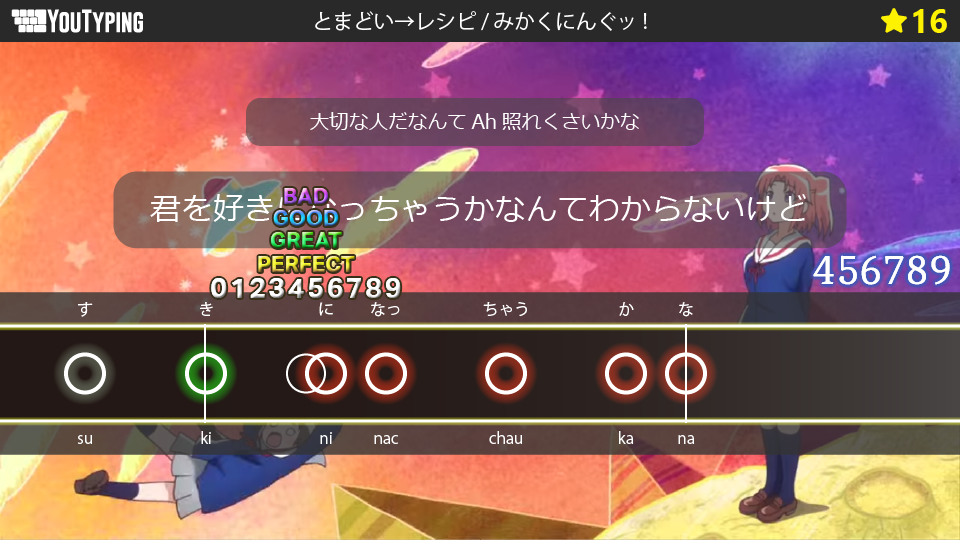
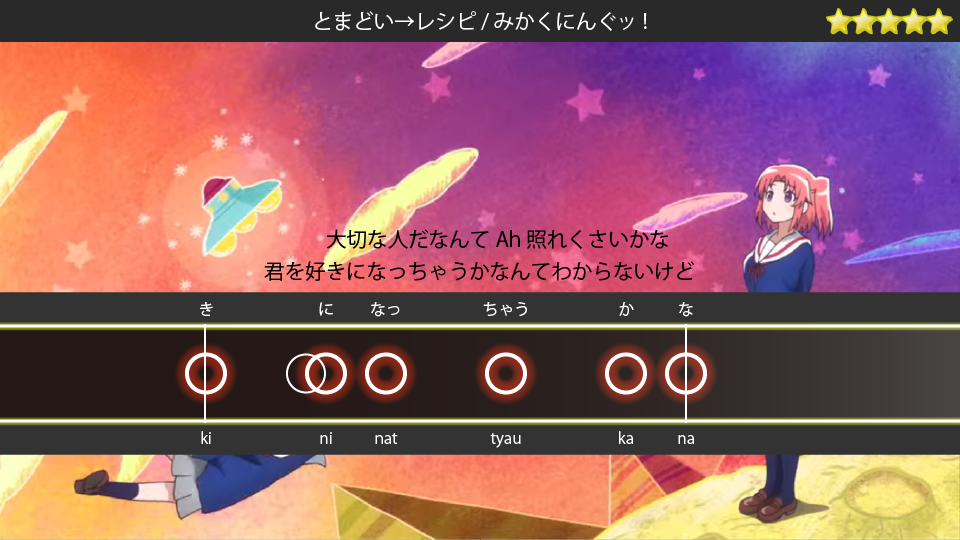
Update breakin animations

diff --git a/composite.js b/composite.js
@@ -13,10 +13,11 @@ lib.properties = {
 		{src:"images/menu_config.png", id:"menu_config"},
 		{src:"images/menu_exit.png", id:"menu_exit"},
 		{src:"images/menu_play.png", id:"menu_play"},
-		{src:"images/opening_light.png", id:"opening_light"},
+		{src:"images/mideshi.jpg", id:"mideshi"},
+		{src:"images/notegreen01.png", id:"notegreen01"},
 		{src:"images/OpeningBackground.png", id:"OpeningBackground"},
 		{src:"images/OpeningLogo.png", id:"OpeningLogo"},
-		{src:"images/youtypingmodern01.png", id:"youtypingmodern01"}
+		{src:"images/rane01.png", id:"rane01"}
 	]
 };
 
@@ -50,10 +51,16 @@ p.nominalBounds = new cjs.Rectangle(0,0,143,50);
 p.nominalBounds = new cjs.Rectangle(0,0,146,68);
 
 
-(lib.opening_light = function() {
-	this.initialize(img.opening_light);
+(lib.mideshi = function() {
+	this.initialize(img.mideshi);
 }).prototype = p = new cjs.Bitmap();
-p.nominalBounds = new cjs.Rectangle(0,0,960,116);
+p.nominalBounds = new cjs.Rectangle(0,0,960,540);
+
+
+(lib.notegreen01 = function() {
+	this.initialize(img.notegreen01);
+}).prototype = p = new cjs.Bitmap();
+p.nominalBounds = new cjs.Rectangle(0,0,64,65);
 
 
 (lib.OpeningBackground = function() {
@@ -68,10 +75,21 @@ p.nominalBounds = new cjs.Rectangle(0,0,960,540);
 p.nominalBounds = new cjs.Rectangle(0,0,469,106);
 
 
-(lib.youtypingmodern01 = function() {
-	this.initialize(img.youtypingmodern01);
+(lib.rane01 = function() {
+	this.initialize(img.rane01);
 }).prototype = p = new cjs.Bitmap();
-p.nominalBounds = new cjs.Rectangle(0,0,960,540);
+p.nominalBounds = new cjs.Rectangle(0,0,960,163);
+
+
+(lib.シンボル4 = function() {
+	this.initialize();
+
+	// レイヤー 1
+	this.instance = new lib.rane01();
+
+	this.addChild(this.instance);
+}).prototype = p = new cjs.Container();
+p.nominalBounds = new cjs.Rectangle(0,0,960,163);
 
 
 (lib.シンボル2 = function() {
@@ -231,7 +249,13 @@ p.nominalBounds = new cjs.Rectangle(-87,-42.9,172,85);
 	this.initialize();
 
 	// ワールドイズマイン
-	this.songTitle = new cjs.Text("ワールドイズマイン", "24px 'Meiryo'", "#FFFFFF");
+	this.text = new cjs.Text("", "24px 'Meiryo'", "#0066CC");
+	this.text.textAlign = "center";
+	this.text.lineHeight = 26;
+	this.text.lineWidth = 100;
+	this.text.setTransform(415.3,309.4);
+
+	this.songTitle = new cjs.Text("とまどい→レシピ", "24px 'Meiryo'", "#FFFFFF");
 	this.songTitle.name = "songTitle";
 	this.songTitle.textAlign = "center";
 	this.songTitle.lineHeight = 26;
@@ -257,9 +281,9 @@ p.nominalBounds = new cjs.Rectangle(-87,-42.9,172,85);
 	this.instance_1 = new lib.OpeningBackground();
 	this.instance_1.setTransform(-581,-270);
 
-	this.addChild(this.instance_1,this.instance,this.menu_play,this.menu_config,this.menu_exit,this.songTitle);
+	this.addChild(this.instance_1,this.instance,this.menu_play,this.menu_config,this.menu_exit,this.songTitle,this.text);
 }).prototype = p = new cjs.Container();
-p.nominalBounds = new cjs.Rectangle(-581,-270,960,540);
+p.nominalBounds = new cjs.Rectangle(-581,-270,1050.3,619.4);
 
 
 // stage content:
@@ -270,20 +294,46 @@ if (loop == null) { loop = false; }	this.initialize(mode,startPosition,loop,{ope
 	this.frame_0 = function() {
 		this.stop();
 	}
-	this.frame_31 = function() {
+	this.frame_50 = function() {
 		this.stop();
 	}
 
 	// actions tween:
-	this.timeline.addTween(cjs.Tween.get(this).call(this.frame_0).wait(31).call(this.frame_31).wait(2));
+	this.timeline.addTween(cjs.Tween.get(this).call(this.frame_0).wait(50).call(this.frame_50).wait(2));
 
-	// CoverAnimate
-	this.instance = new lib.シンボル2();
-	this.instance.setTransform(480,270,1,1,0,0,0,480,270);
-	this.instance.alpha = 0;
+	// レイヤー 3 (mask)
+	var mask = new cjs.Shape();
+	mask._off = true;
+	var mask_graphics_39 = new cjs.Graphics().p("EAtPAoVMAAAg9IMBDYAAAMAAAA9Ig");
+	var mask_graphics_40 = new cjs.Graphics().p("EgIaAoVMAAAg9IMB5BAAAMAAAA9Ig");
+	var mask_graphics_41 = new cjs.Graphics().p("EgpiAoVMAAAg9IMCaJAAAMAAAA9Ig");
+	var mask_graphics_42 = new cjs.Graphics().p("Eg+qAoVMAAAg9IMCvRAAAMAAAA9Ig");
+	var mask_graphics_43 = new cjs.Graphics().p("EhNnAoVMAAAg9IMC+OAAAMAAAA9Ig");
+	var mask_graphics_44 = new cjs.Graphics().p("EhZ4AoVMAAAg9IMDKfAAAMAAAA9Ig");
+	var mask_graphics_45 = new cjs.Graphics().p("EhlSAoVMAAAg9IMDV5AAAMAAAA9Ig");
+	var mask_graphics_46 = new cjs.Graphics().p("EhwlAoVMAAAg9IMDhMAAAMAAAA9Ig");
+	var mask_graphics_47 = new cjs.Graphics().p("EhwmAoVMAAAg9IMDhNAAAMAAAA9Ig");
+	var mask_graphics_48 = new cjs.Graphics().p("EhwmAoVMAAAg9IMDhNAAAMAAAA9Ig");
+	var mask_graphics_49 = new cjs.Graphics().p("EhwmAoVMAAAg9IMDhNAAAMAAAA9Ig");
+
+	this.timeline.addTween(cjs.Tween.get(mask).to({graphics:null,x:0,y:0}).wait(39).to({graphics:mask_graphics_39,x:720.8,y:258.1}).wait(1).to({graphics:mask_graphics_40,x:720.8,y:258.1}).wait(1).to({graphics:mask_graphics_41,x:720.8,y:258.1}).wait(1).to({graphics:mask_graphics_42,x:720.8,y:258.1}).wait(1).to({graphics:mask_graphics_43,x:720.8,y:258.1}).wait(1).to({graphics:mask_graphics_44,x:720.8,y:258.1}).wait(1).to({graphics:mask_graphics_45,x:720.8,y:258.1}).wait(1).to({graphics:mask_graphics_46,x:720.8,y:258.1}).wait(1).to({graphics:mask_graphics_47,x:720.5,y:258.1}).wait(1).to({graphics:mask_graphics_48,x:720.5,y:258.1}).wait(1).to({graphics:mask_graphics_49,x:720.5,y:258.1}).wait(1).to({graphics:null,x:0,y:0}).wait(2));
+
+	// Main
+	this.instance = new lib.シンボル4();
+	this.instance.setTransform(480,373,1,1,0,0,0,480,81.5);
 	this.instance._off = true;
 
-	this.timeline.addTween(cjs.Tween.get(this.instance).wait(1).to({_off:false},0).wait(1).to({alpha:0.034},0).wait(1).to({alpha:0.069},0).wait(1).to({alpha:0.103},0).wait(1).to({alpha:0.138},0).wait(1).to({alpha:0.172},0).wait(1).to({alpha:0.207},0).wait(1).to({alpha:0.241},0).wait(1).to({alpha:0.276},0).wait(1).to({alpha:0.31},0).wait(1).to({alpha:0.345},0).wait(1).to({alpha:0.379},0).wait(1).to({alpha:0.414},0).wait(1).to({alpha:0.448},0).wait(1).to({alpha:0.483},0).wait(1).to({alpha:0.517},0).wait(1).to({alpha:0.552},0).wait(1).to({alpha:0.586},0).wait(1).to({alpha:0.621},0).wait(1).to({alpha:0.655},0).wait(1).to({alpha:0.69},0).wait(1).to({alpha:0.724},0).wait(1).to({alpha:0.759},0).wait(1).to({alpha:0.793},0).wait(1).to({alpha:0.828},0).wait(1).to({alpha:0.862},0).wait(1).to({alpha:0.897},0).wait(1).to({alpha:0.931},0).wait(1).to({alpha:0.966},0).wait(1).to({alpha:1},0).to({_off:true},1).wait(2));
+	this.instance.mask = mask;
+
+	this.timeline.addTween(cjs.Tween.get(this.instance).wait(39).to({_off:false},0).wait(10).to({_off:true},1).wait(2));
+
+	// CoverAnimate
+	this.instance_1 = new lib.シンボル2();
+	this.instance_1.setTransform(480,270,1,1,0,0,0,480,270);
+	this.instance_1.alpha = 0;
+	this.instance_1._off = true;
+
+	this.timeline.addTween(cjs.Tween.get(this.instance_1).wait(1).to({_off:false},0).wait(1).to({alpha:0.034},0).wait(1).to({alpha:0.069},0).wait(1).to({alpha:0.103},0).wait(1).to({alpha:0.138},0).wait(1).to({alpha:0.172},0).wait(1).to({alpha:0.207},0).wait(1).to({alpha:0.241},0).wait(1).to({alpha:0.276},0).wait(1).to({alpha:0.31},0).wait(1).to({alpha:0.345},0).wait(1).to({alpha:0.379},0).wait(1).to({alpha:0.414},0).wait(1).to({alpha:0.448},0).wait(1).to({alpha:0.483},0).wait(1).to({alpha:0.517},0).wait(1).to({alpha:0.552},0).wait(1).to({alpha:0.586},0).wait(1).to({alpha:0.621},0).wait(1).to({alpha:0.655},0).wait(1).to({alpha:0.69},0).wait(1).to({alpha:0.724},0).wait(1).to({alpha:0.759},0).wait(1).to({alpha:0.793},0).wait(1).to({alpha:0.828},0).wait(1).to({alpha:0.862},0).wait(1).to({alpha:0.897},0).wait(1).to({alpha:0.931},0).wait(1).to({alpha:0.966},0).wait(1).to({alpha:1},0).wait(2).to({alpha:0.944},0).wait(1).to({alpha:0.889},0).wait(1).to({alpha:0.833},0).wait(1).to({alpha:0.778},0).wait(1).to({alpha:0.722},0).wait(1).to({alpha:0.667},0).wait(1).to({alpha:0.611},0).wait(1).to({alpha:0.556},0).wait(1).to({alpha:0.5},0).wait(1).to({alpha:0.444},0).wait(1).to({alpha:0.389},0).wait(1).to({alpha:0.333},0).wait(1).to({alpha:0.278},0).wait(1).to({alpha:0.222},0).wait(1).to({alpha:0.167},0).wait(1).to({alpha:0.111},0).wait(1).to({alpha:0.056},0).wait(1).to({alpha:0},0).to({_off:true},1).wait(2));
 
 	// Cover
 	this.shape = new cjs.Shape();
@@ -291,21 +341,27 @@ if (loop == null) { loop = false; }	this.initialize(mode,startPosition,loop,{ope
 	this.shape.setTransform(480,270);
 	this.shape._off = true;
 
-	this.timeline.addTween(cjs.Tween.get(this.shape).wait(1).to({_off:false},0).to({_off:true},30).wait(2));
+	this.timeline.addTween(cjs.Tween.get(this.shape).wait(1).to({_off:false},0).to({_off:true},30).wait(21));
 
 	// Main
 	this.opening = new lib.Opening();
 	this.opening.setTransform(581,270);
 
-	this.instance_1 = new lib.youtypingmodern01();
+	this.instance_2 = new lib.mideshi();
 
-	this.instance_2 = new lib.OpeningLight();
-	this.instance_2.setTransform(480,268,1,1,0,0,0,0,5);
+	this.instance_3 = new lib.notegreen01();
+	this.instance_3.setTransform(459,341.5);
 
-	this.timeline.addTween(cjs.Tween.get({}).to({state:[{t:this.opening}]}).to({state:[{t:this.instance_1}]},31).to({state:[{t:this.instance_2}]},1).wait(1));
+	this.instance_4 = new lib.rane01();
+	this.instance_4.setTransform(0,291.5);
+
+	this.instance_5 = new lib.OpeningLight();
+	this.instance_5.setTransform(480,268,1,1,0,0,0,0,5);
+
+	this.timeline.addTween(cjs.Tween.get({}).to({state:[{t:this.opening}]}).to({state:[{t:this.instance_2}]},31).to({state:[{t:this.instance_2},{t:this.instance_4},{t:this.instance_3}]},19).to({state:[{t:this.instance_5}]},1).wait(1));
 
 }).prototype = p = new cjs.MovieClip();
-p.nominalBounds = new cjs.Rectangle(480,270,960,540);
+p.nominalBounds = new cjs.Rectangle(480,270,1050.3,619.4);
 
 })(lib = lib||{}, images = images||{}, createjs = createjs||{});
 var lib, images, createjs;

diff --git a/Gruntfile.js b/Gruntfile.js
@@ -16,9 +16,8 @@ module.exports = function (grunt) {
 			files: {
 				src: [
 					'images/*',
-					'*.js',
-					'*.html',
-					'*.css'
+					'composite.js',
+					'composite.html',
 				],
 				dest: '../../../Documents/GitHub/YouTyping-Modern/'
 			}
